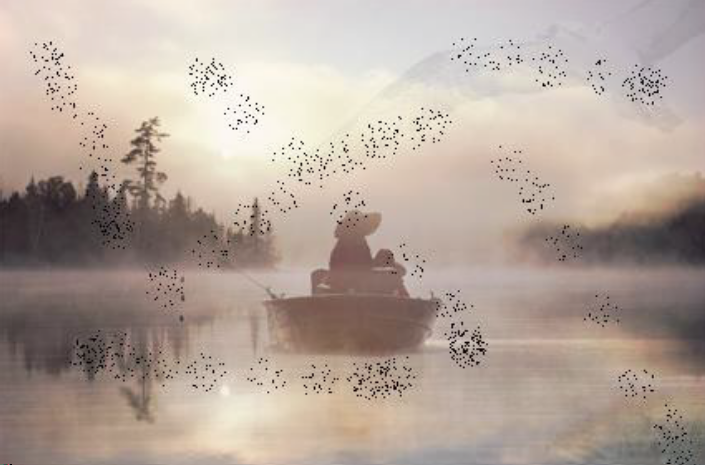
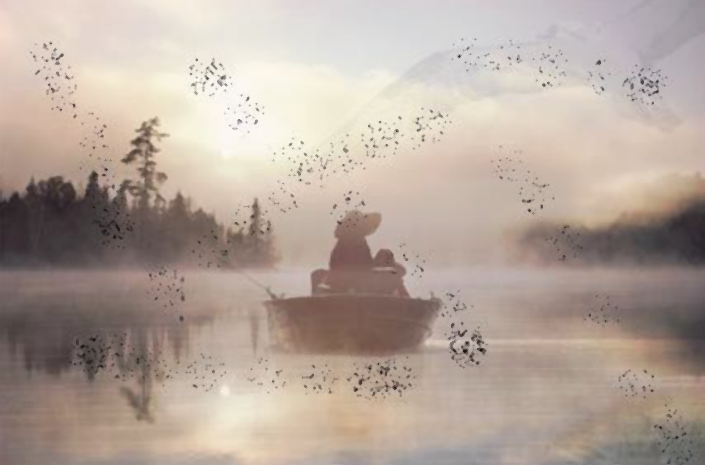
mediana arrumada

diff --git a/src/br/com/uel/computacao/grafica/imagem/Convolucao.java b/src/br/com/uel/computacao/grafica/imagem/Convolucao.java
@@ -1,7 +1,5 @@
 package br.com.uel.computacao.grafica.imagem;
 
-import java.util.ArrayList;
-import java.util.Arrays;
 import java.util.Comparator;
 import java.util.LinkedList;
 
@@ -47,10 +45,10 @@ public class Convolucao implements Comparator<Pixel> {
 	private void borda(int i, int j, String metodo) {
 		switch (metodo) {
 		case "sobel":
-			sobel(i+1, j+1);
+			sobel(i + 1, j + 1);
 			break;
 		case "media":
-			media(i+1, j+1);
+			media(i + 1, j + 1);
 			break;
 		case "mediana":
 			mediana(i, j);
@@ -134,8 +132,9 @@ public class Convolucao implements Comparator<Pixel> {
 
 	private void mediana(int lin, int col) {
 		double rgb[] = null;
-		
-		double lista[] = new double[9];
+
+//		double lista[] = new double[9];
+		LinkedList<Pixel> lista = new LinkedList<Pixel>();
 
 		// percorre a vizinhança do pixel
 		for (int i = lin - raio; i <= lin + raio; i++) {
@@ -146,24 +145,31 @@ public class Convolucao implements Comparator<Pixel> {
 				if (j == this.col || j < 0) {
 					continue;
 				}
-				Arrays.fill(lista,(int)rgb[0]+rgb[1]+rgb[2]);
 				rgb = imagem.get(i, j);
+				lista.add(new Pixel(rgb[0], rgb[1], rgb[2], i, j));
+//				Arrays.fill(lista,(int)rgb[0]+rgb[1]+rgb[2]);
 //				lista.add((int)rgb[0]+rgb[1]+rgb[2]);
-//				System.out.print("i: "+i+"[r:"+lista.get(lista.size()-1).r+","+"g:"+lista.get(lista.size()-1).g+",b:"+lista.get(lista.size()-1).b+"]");
+//				System.out.print("i: " + i + "[r:" + lista.get(lista.size() - 1).r + "," + "g:"
+//						+ lista.get(lista.size() - 1).g + ",b:" + lista.get(lista.size() - 1).b + "]");
 //				System.out.print("[i: "+(i)+" col: "+(j)+"]");
 			}
 //			System.out.println();
 		}
-		Arrays.sort(lista);
+//		Arrays.sort(lista);
+		lista.sort(this);
+//		System.out.println("ordenacao: ");
+		for (int k = 0; k < lista.size(); k++) {
+//			System.out.println("[r:" + lista.get(k).r + "," + "g:" + lista.get(k).g + ",b:" + lista.get(k).b + "]");
+		}
 
-		
-//		System.out.println("\n[r:"+lista.get(lista.size()/2).r+","+"g:"+lista.get(lista.size()/2).g+",b:"+lista.get(lista.size()/2).b+"]");
-//		System.out.println(lista.size()/2);	
-//		Pixel pixel = lista.get(lista.size()/2);
-//		rgb = imagem.get(pixel.x,pixel.y);
+//		System.out.println("mediana: " + lista.size() / 2);
+		Pixel pixel = lista.get(lista.size() / 2);
+		rgb = imagem.get(pixel.x, pixel.y);
+//		System.out.println("\nvalor mediana: [r:" + pixel.r + "," + "g:" + pixel.g + ",b:" + pixel.b + "]");
+//		System.out.println("\nvalor mediana: [r:" + lista.get(lista.size() / 2).r + "," + "g:"
+//				+ lista.get(lista.size() / 2).g + ",b:" + lista.get(lista.size() / 2).b + "]");
 		convolucao.put(lin, col, rgb);
 	}
-
 
 	@SuppressWarnings("unused")
 	private void distanciaCor(int lin, int col) {
@@ -202,12 +208,12 @@ public class Convolucao implements Comparator<Pixel> {
 	@Override
 	public int compare(Pixel p1, Pixel p2) {
 
-		if(p1.r + p1.g + p1.b > p2.r +p2.g + p2.b) {
-		return 0;			
-	}else {
-		return 1;
-	}
-		
+		if (p1.r > p2.r && p1.g > p2.g && p1.b > p2.b) {
+			return 1;
+		} else {
+			return -1;
+		}
+
 //		if(p1.r > p2.r && p1.g > p2.g && p1.b > p2.b) {
 //			return 0;			
 //		}else {
